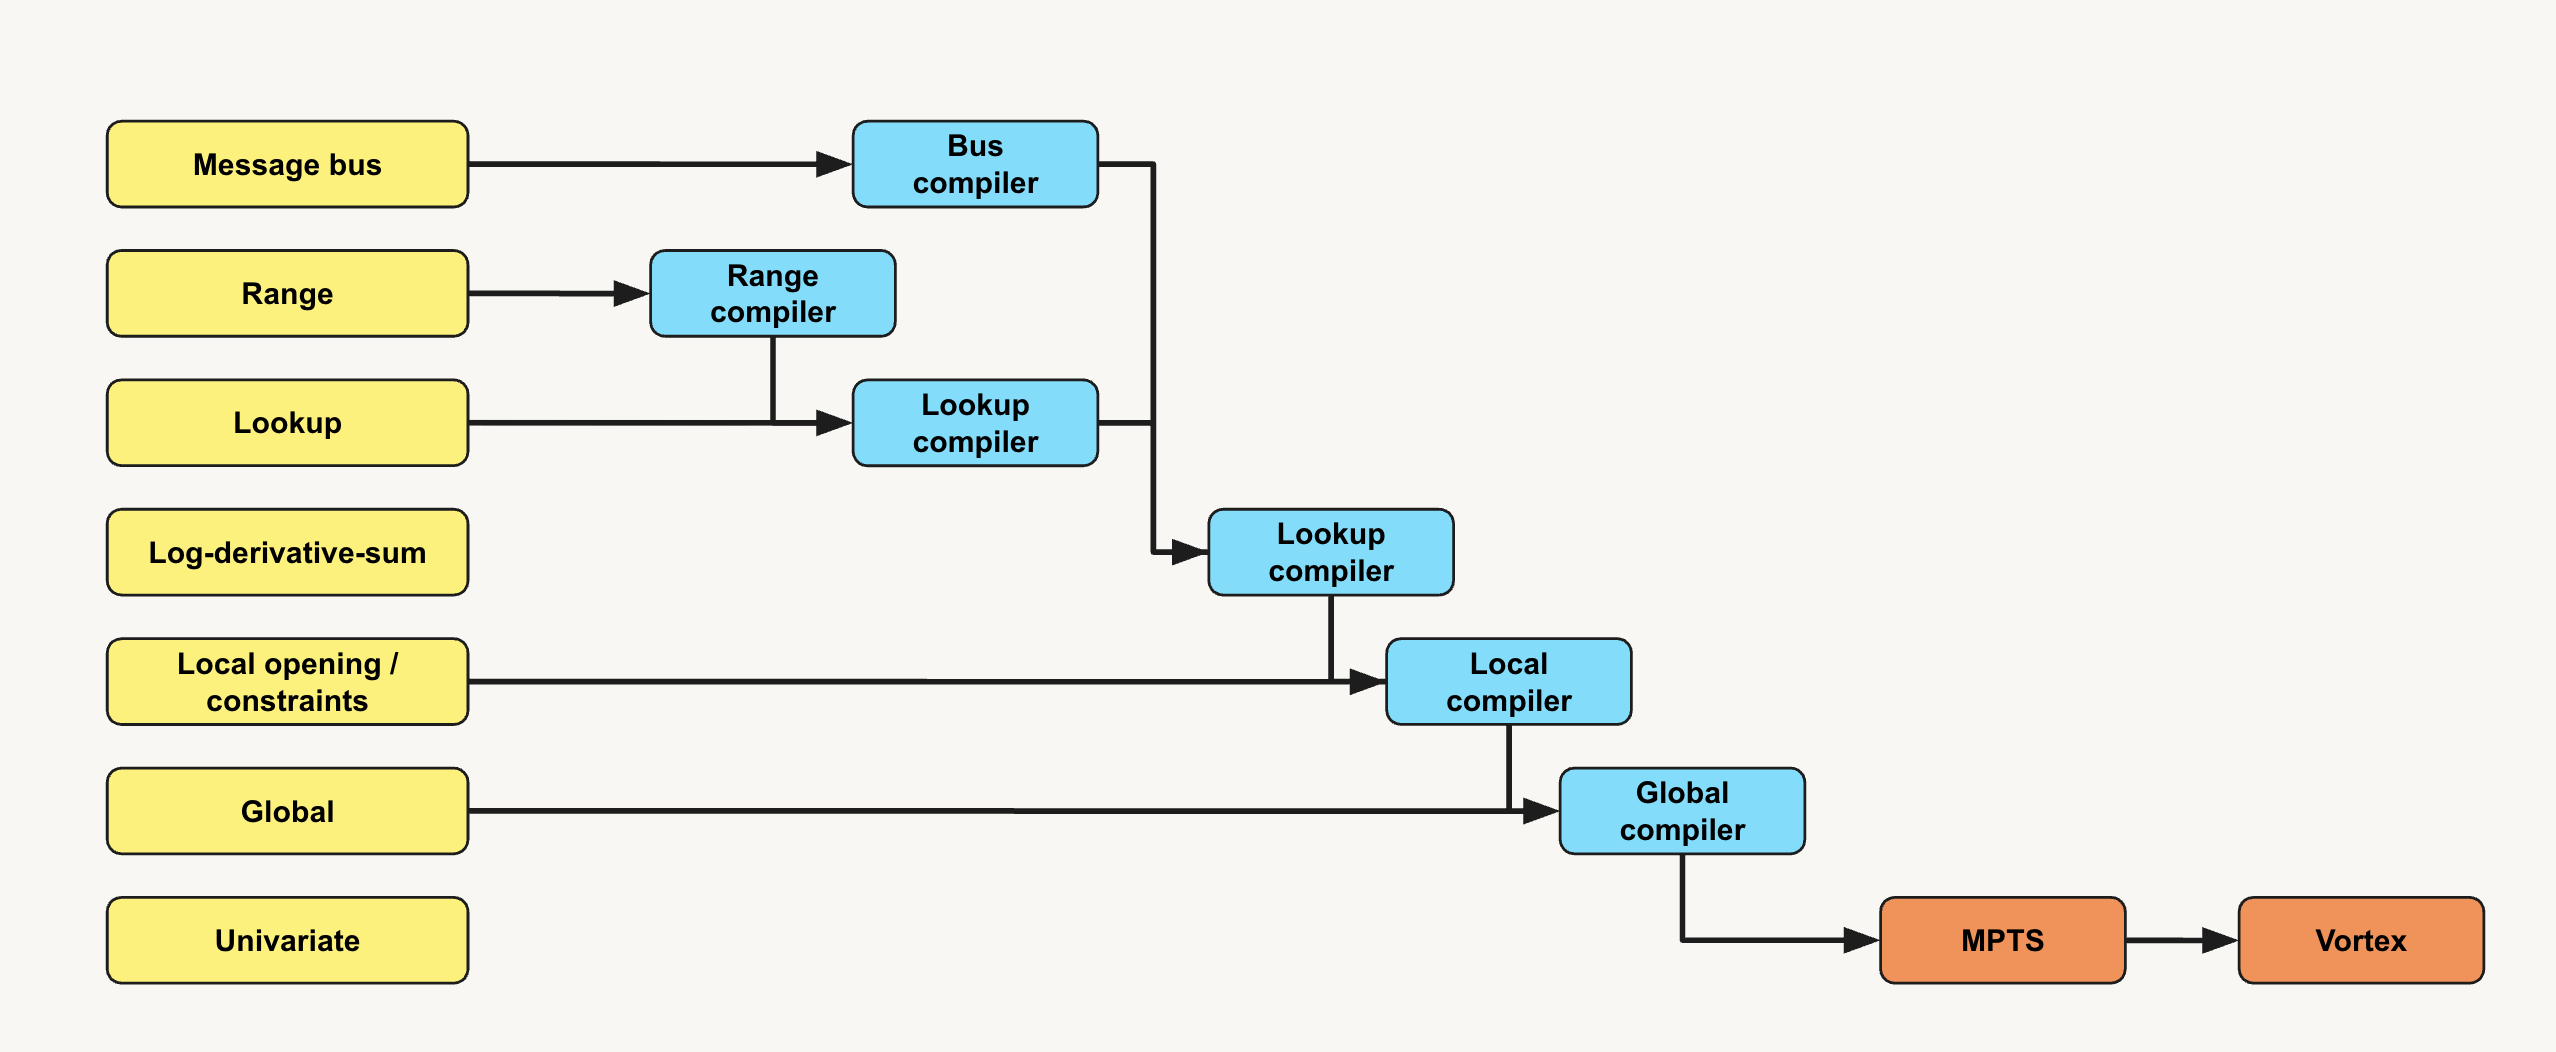
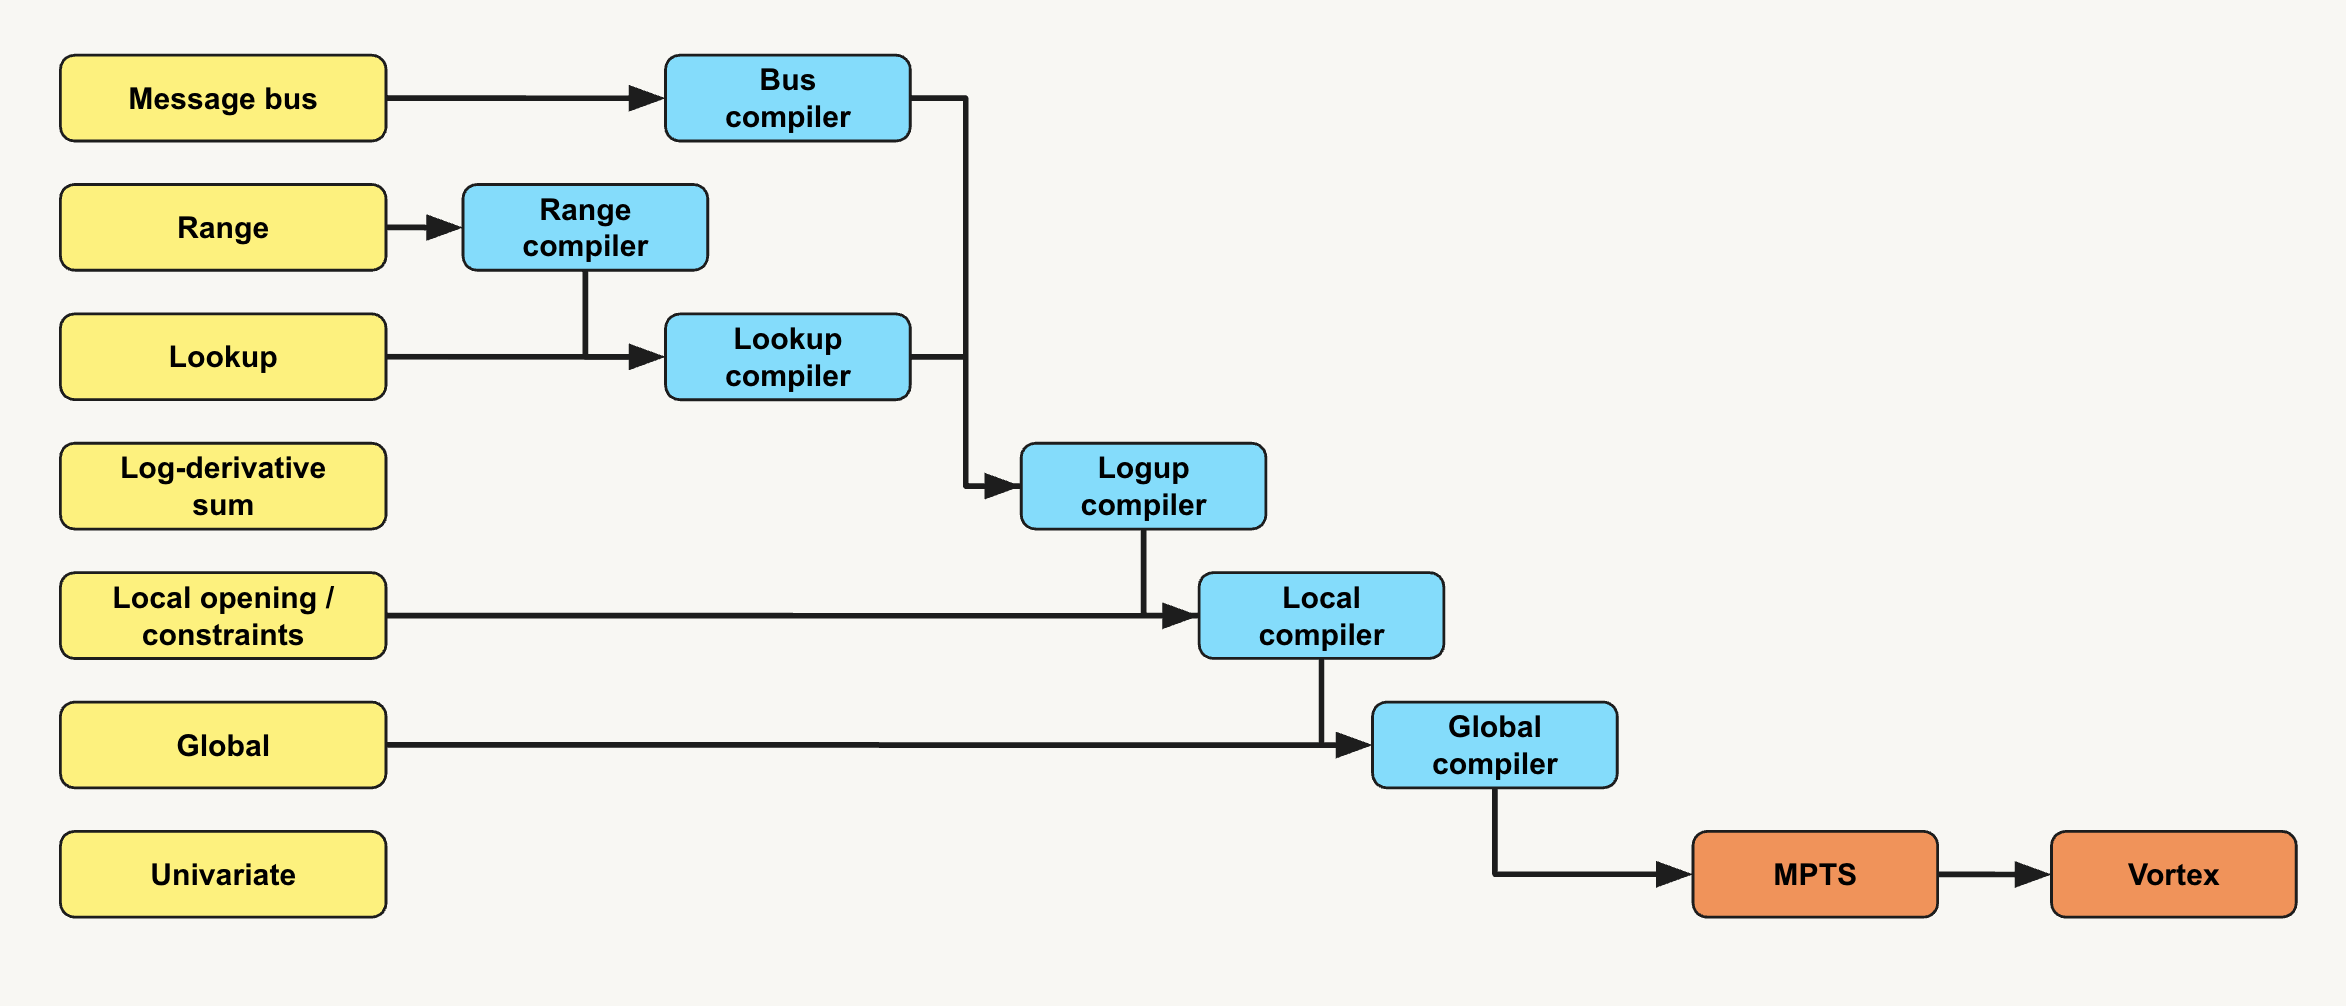
fixup: diagram update the diagram with more details

Changed region(s): [[0.0, 0.0308, 0.9957, 0.9553]]

diff --git a/prover-ray/docs/arcane-compilation-suite.md b/prover-ray/docs/arcane-compilation-suite.md
@@ -1,6 +1,8 @@
+# Arcane compilation
+
 Arcane is the wizard-protocol (WIOP) compiler suite. This document describes its compilation pipeline, which lowers a wiop.System into a residue of polynomial commitments and evaluation queries through a sequence of atomic passes, each eliminating one class of query. The final lowering of that residue into a concrete protocol — the multi-point-to-single-point (MPTS) and polynomial-commitment-scheme (PCS) steps — is out of scope. The rest of the document first sketches the WIOP framework, then walks through the passes in pipeline order.
 
-# Overview of the WIOP framework
+## Overview of the WIOP framework
 
 A wiop.System is the static, declarative description of an Interactive Oracle Proof protocol — think of it as the blueprint of a proof, built once at setup time and reused across many proving sessions.
 
@@ -12,11 +14,11 @@ This split — spec vs. execution — is what lets compilers operate on a System
 
 Compilers do more than rewrite queries: they can also extend the System. A pass may register new columns in the PrecomputedRound (for example, the multiplicity column $M$ produced by the lookup compiler), and it may append new interactive Rounds when its reduction needs fresh verifier challenges.
 
-# Overview of the compiler suite
+## Overview of the compiler suite
 
 As mentioned above, the philosophy of the compiler suite is to incrementally eliminate classes of queries one after another.
 
-The initial polynomial-IOP may feature queries of type (1) Inclusion/Lookup, (2) Log-derivative Sum, (3) Vanishing constraints. The compilation pipeline is summed up as follows: 
+The initial polynomial-IOP may feature queries of type (1) Inclusion/Lookup, (2) Log-derivative Sum, (3) Vanishing constraints. The compilation pipeline is summed up in the figure below.
 
 ![Compilation pipeline](./compiler-architecture.png)
 